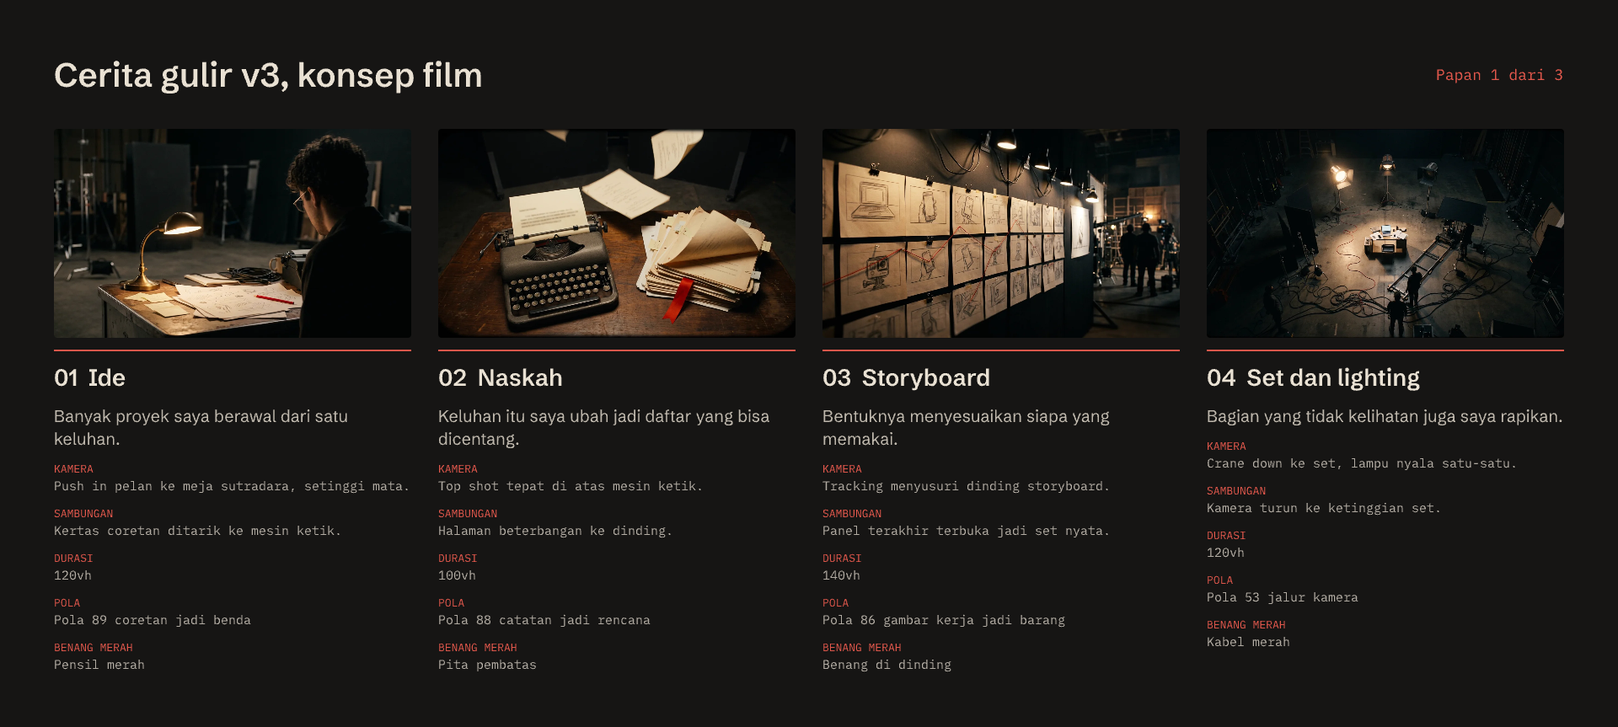
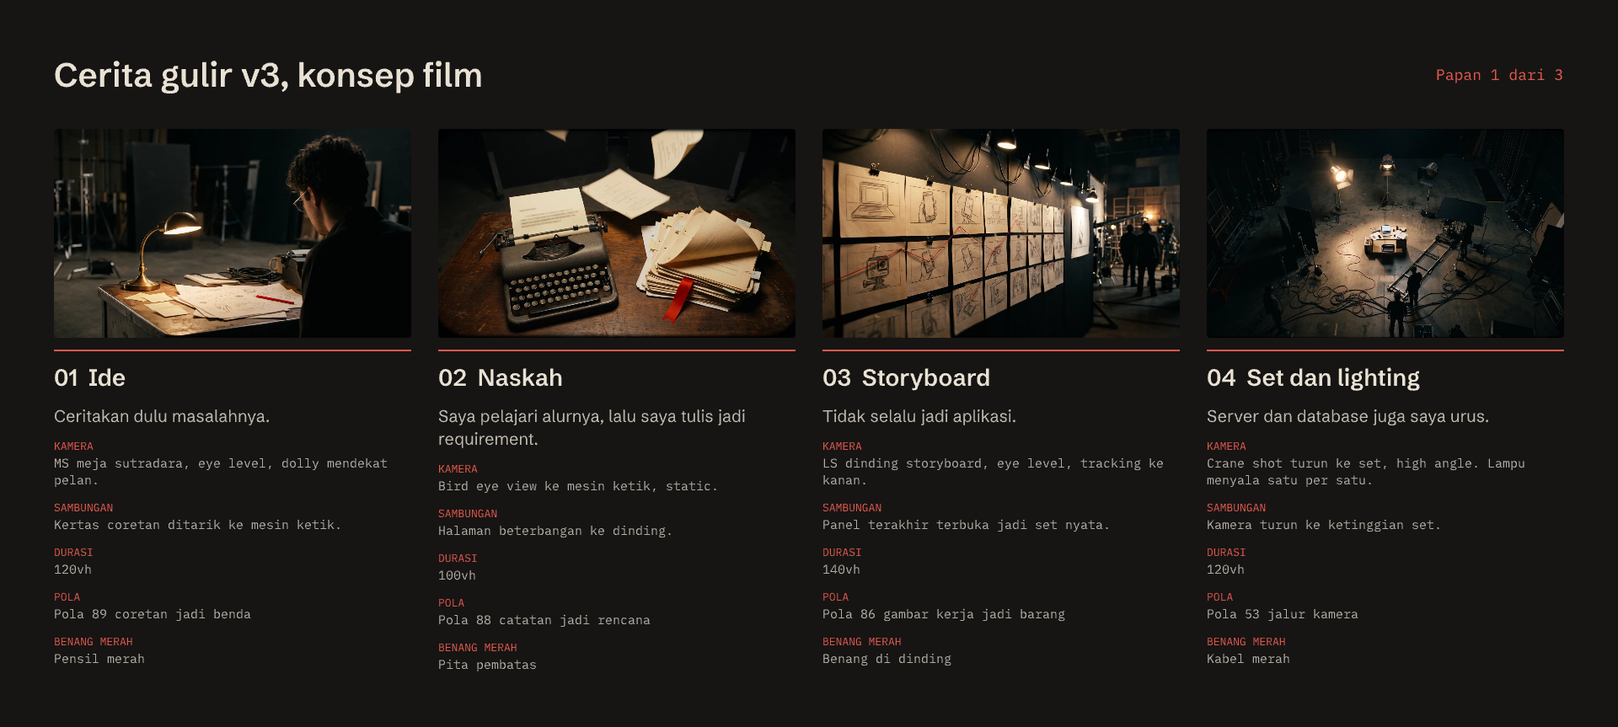
docs: teks cerita v3 putaran 3 dari riset copy dan shot list Indonesia
Teks bab ditulis dari pola situs software house Indonesia, catatan
kamera dari pola shot list dan camera report Indonesia. Sumber per baris
di desain/cerita-v3/riset-teks.md.

diff --git a/desain/cerita-v3/animatic/naskah.js b/desain/cerita-v3/animatic/naskah.js
@@ -9,43 +9,43 @@
 
 export const BEAT = [
   { no: 1, gambar: "01-ide", judul: "Ide", vh: 120,
-    teks: "Banyak proyek saya berawal dari satu keluhan.",
+    teks: "Ceritakan dulu masalahnya.",
     kamera: { dari: { x: 0.45, y: 0.6, s: 1.0 }, ke: { x: 0.42, y: 0.72, s: 1.35 } },
     hp: 0.62, sambung: { jenis: "zoom", ke: { x: 0.38, y: 0.78, s: 2.4 } } },
   { no: 2, gambar: "02-naskah", judul: "Naskah", vh: 100,
-    teks: "Keluhan itu saya ubah jadi daftar yang bisa dicentang.",
+    teks: "Saya pelajari alurnya, lalu saya tulis jadi requirement.",
     kamera: { dari: { x: 0.4, y: 0.55, s: 1.25 }, ke: { x: 0.45, y: 0.4, s: 1.05 } },
     hp: 0.4, sambung: { jenis: "naik" } },
   { no: 3, gambar: "03-storyboard", judul: "Storyboard", vh: 140,
-    teks: "Bentuknya menyesuaikan siapa yang memakai.",
+    teks: "Tidak selalu jadi aplikasi.",
     kamera: { dari: { x: 0.12, y: 0.45, s: 1.4 }, ke: { x: 0.62, y: 0.45, s: 1.15 } },
     hp: 0.3, sambung: { jenis: "portal", kotak: [0.7, 0.36, 0.06, 0.16] } },
   { no: 4, gambar: "04-set", judul: "Set dan lighting", vh: 120,
-    teks: "Bagian yang tidak kelihatan juga saya rapikan.",
+    teks: "Server dan database juga saya urus.",
     kamera: { dari: { x: 0.5, y: 0.3, s: 1.3 }, ke: { x: 0.45, y: 0.55, s: 1.6 } },
     hp: 0.46, lampu: true, sambung: { jenis: "naik" } },
   { no: 5, gambar: "05-syuting", judul: "Syuting", vh: 120,
-    teks: "Saya bangun, lalu saya coba di alat yang benar-benar dipakai.",
+    teks: "Lalu saya bangun, bertahap.",
     kamera: { dari: { x: 0.55, y: 0.5, s: 1.15 }, ke: { x: 0.6, y: 0.45, s: 1.3 } },
     hp: 0.55, getar: true, sambung: { jenis: "portal", kotak: [0.56, 0.67, 0.18, 0.16] } },
   { no: 6, gambar: "06-editing", judul: "Editing", vh: 120,
-    teks: "Anda selalu tahu sudah sampai mana.",
+    teks: "Progresnya selalu bisa Anda cek.",
     kamera: { dari: { x: 0.5, y: 0.5, s: 1.0 }, ke: { x: 0.42, y: 0.38, s: 1.55 } },
     hp: 0.5, sambung: { jenis: "zoom", ke: { x: 0.42, y: 0.36, s: 3 } } },
   { no: 7, gambar: "07-grading", judul: "Color grading", vh: 100,
-    teks: "Yang sudah jalan, saya haluskan sampai enak dipakai.",
+    teks: "Lalu dirapikan sampai enak dipakai.",
     kamera: { dari: { x: 0.55, y: 0.4, s: 1.35 }, ke: { x: 0.55, y: 0.45, s: 1.1 } },
     hp: 0.55, sibak: true, sambung: { jenis: "mundur" } },
   { no: 8, gambar: "08-screening", judul: "Test screening", vh: 120,
-    teks: "Ada sinyal atau tidak, tetap jalan.",
+    teks: "Sinyal hilang, catatan tetap tersimpan.",
     kamera: { dari: { x: 0.5, y: 0.6, s: 1.0 }, ke: { x: 0.55, y: 0.4, s: 1.45 } },
     hp: 0.55, tersendat: 0.5, sambung: { jenis: "zoom", ke: { x: 0.56, y: 0.36, s: 3.2 } } },
   { no: 9, gambar: "09-segel", judul: "Segel dan duplikasi", vh: 120,
-    teks: "Yang bisa membaca cuma orang yang memang berhak. Klien bertambah, sistemnya tidak perlu dibuat ulang.",
+    teks: "Siapa boleh lihat apa, saya atur dari awal. Klien bertambah, sistemnya tetap satu.",
     kamera: { dari: { x: 0.62, y: 0.55, s: 1.9 }, ke: { x: 0.5, y: 0.5, s: 1.0 } },
     hp: 0.72, sambung: { jenis: "mundur" } },
   { no: 10, gambar: "10-rilis", judul: "Rilis", vh: 180,
-    teks: "Sampai akhirnya dipakai orang setiap hari. Sepuluh di antaranya ada di rak ini.",
+    teks: "Sampai akhirnya dipakai tiap hari. Sepuluh di antaranya ada di rak ini.",
     kamera: { dari: { x: 0.5, y: 0.8, s: 1.3 }, ke: { x: 0.5, y: 0.42, s: 1.2 } },
     hp: 0.5, sambung: { jenis: "tirai", ke: { x: 0.5, y: 0.42, s: 4 } } },
 ];

diff --git a/desain/cerita-v3/naskah-teks.md b/desain/cerita-v3/naskah-teks.md
@@ -1,72 +1,85 @@
 # Teks cerita v3 (versi Indonesia)
 
-11 Nov 2026, putaran 2 setelah Farrez menilai semua teks putaran 1 kaku dan terasa terjemahan
-paksa dari bahasa Inggris. Ditulis lewat skill `bahasa-lisan`: bank copy coderoach-referensi
-(`gaya.md` gaya 3 "bercerita lewat momen" dan gaya 1 "tenang dan akrab", `kerangka.md`), sapaan
-"Anda" (keputusan Farrez 4 Nov 2026, `docs/naskah-adegan.md`), istilah kerja tetap Inggris.
+Putaran 3, 11 Nov 2026. Putaran 1 kaku. Putaran 2 sudah tidak kaku, tapi Farrez menilainya aneh
+("mana ada orang copywriting seperti itu"), karena kalimatnya dirakit dari aturan, bukan dari
+contoh nyata. Putaran ini ditulis dari riset (`riset-teks.md` di folder ini): cara software house
+dan agensi Indonesia menulis tahap kerjanya, dan kajian kenapa teks terasa terjemahan.
 
-Pembaca: pemilik usaha, perusahaan, dan recruiter yang sedang menimbang apakah Farrez bisa
-dipercaya mengurus masalah mereka. Momennya: mereka punya keluhan yang belum jelas bentuknya.
-Fakta dan cakupan klaim sama dengan `content/cerita.js`. Baris bertanda **[konfirmasi]** memuat
-klaim baru yang hanya Farrez tahu benar tidaknya.
+Pola yang dipakai, semuanya terlihat di situs Indonesia sungguhan (11 Nov 2026):
+- Ajakan langsung di awal: "Ceritakan kebutuhan Anda" (Javan, GITS, KerjainWeb).
+- Pelaku jelas dan kata kerja tanpa me-: "Kami pelajari ...", "Kami susun ..." (Olakses, KerjainWeb).
+  Di situs pribadi pelakunya "saya".
+- Klien jadi pelaku di tahap persetujuan: "Anda tinjau dan setujui sebelum masuk development"
+  (KerjainWeb).
+- Benda konkret, bukan sifat abstrak: "domain, hosting, CMS" (Olakses), "garansi bug" (Venturo).
+- Istilah kerja dibiarkan Inggris: requirement, development, UAT, go-live, bug (Venturo, Niagadev).
+- Satu kalimat per tahap, 7 sampai 14 kata.
 
-Versi EN ditulis terpisah saat build, dari isi yang sama, bukan diterjemahkan dari sini.
+Yang dihindari, juga dari riset: kalimat yang terbaca balik sebagai tagline Inggris, kata kerja
+transitif tanpa objek ("menyesuaikan"), sifat abstrak tanpa contoh, "lebih dari sekadar",
+"solusi digital", "era digital" (Narabahasa; alvinindra/bahasa-skills; Machali 2023).
+
+Fakta dan cakupan klaim sama dengan `content/cerita.js`. Baris **[konfirmasi]** memuat klaim yang
+hanya Farrez tahu benar tidaknya; baris itu belum dipasang di papan dan animatic.
 
 ## Judul dan isi per beat
 
-| # | Sebelum | Sesudah | Alasan |
+| # | Putaran 2 (aneh) | Putaran 3 | Polanya dari mana |
 |---|---|---|---|
-| 1 judul | Sistem yang bagus sering berawal dari keluhan kecil. | Banyak proyek saya berawal dari satu keluhan. | Terjemahan "Good systems often start as..." (cek 5). "Sistem yang bagus" kalimat umum, tidak bisa dibuktikan salah (cek 8); proyek di rak bisa dicek. |
-| 1 isi | Ceritakan masalahnya dengan kata Anda sendiri. Bagian teknisnya urusan saya. | Ceritakan saja masalahnya pakai bahasa Anda sendiri. Soal teknis, biar saya yang pikirkan. | "dengan kata Anda sendiri" kalke "in your own words" (cek 5); "urusan saya" terdengar ketus. |
-| 2 judul | Keluhan itu saya tulis ulang jadi daftar kebutuhan yang bisa dicek satu per satu. | Keluhan itu saya ubah jadi daftar yang bisa dicentang. | 14 kata jadi 8 (cek 2). "Dicentang" bisa dibayangkan (cek 8). |
-| 2 isi | (belum ada) | Tiap poin jelas: siapa yang pakai, apa yang harus terjadi, kapan dianggap beres. Anda ikut mengecek sejak awal. **[konfirmasi]** | Dari alur kerja `alur-desain` (requirement dan acceptance criteria, sign-off klien). Perlu dipastikan berlaku untuk proyek di rak. |
-| 3 judul | Bentuknya ikut kebutuhan. | Bentuknya menyesuaikan siapa yang memakai. | Kalke "The shape follows the need" (cek 5); "kebutuhan" abstrak, "siapa yang memakai" ada orangnya (cek 8). |
-| 3 isi | Kadang jawabannya aplikasi Android yang tersambung ke kamera aksi. Kadang sistem kantor di laptop, dashboard di HP, atau alur dari iklan sampai obrolan WhatsApp. | Kadang jadinya aplikasi Android yang tersambung ke kamera aksi. Kadang sistem kantor di laptop, dashboard di HP, atau alur dari iklan sampai chat WhatsApp. | "jawabannya" kalke "the answer is"; "obrolan WhatsApp" tidak diucapkan orang, yang diucapkan "chat WA". |
-| 4 judul | Yang tidak terlihat dirawat sama telitinya. | Bagian yang tidak kelihatan juga saya rapikan. | Kalke "The parts nobody sees get the same care"; pasif tanpa pelaku (cek 3). |
-| 4 isi | Sembilan dari sepuluh proyek di rak punya halaman arsitektur. Anda bisa menelusuri satu permintaan dari layar sampai server, tanpa membuka rahasia klien. | Sembilan dari sepuluh proyek di rak punya halaman arsitektur. Di situ Anda bisa ikuti satu permintaan dari layar sampai server, tanpa ada rahasia klien yang terbuka. | "menelusuri" baku; "tanpa membuka rahasia" ambigu siapa yang membuka. |
-| 5 judul | Lalu dibangun dan dicoba di perangkat yang memang dipakai. | Saya bangun, lalu saya coba di alat yang benar-benar dipakai. | Pasif tanpa pelaku (cek 3). |
-| 5 isi | (belum ada) | YiheeCam saya uji langsung dengan kamera aksi aslinya. **[konfirmasi]** | Butuh bukti: apakah memang diuji dengan YI 4K asli. |
-| 6 judul | Anda selalu tahu posisinya. | Anda selalu tahu sudah sampai mana. | "posisinya" kalke "where things stand"; orang bilang "sudah sampai mana". |
-| 6 isi | Keputusan penting saya tulis bersama alasannya. Status juga ditulis apa adanya: d-day sudah lulus uji di testnet dan belum pernah memakai uang sungguhan. | Setiap keputusan penting saya catat, lengkap dengan alasannya. Statusnya juga saya tulis apa adanya: d-day sudah lulus uji di testnet, tapi belum pernah dipakai dengan uang sungguhan. | Pasif tanpa pelaku; "d-day ... belum pernah memakai uang" membuat aplikasinya jadi pelaku. |
-| 7 judul | Yang kasar dirapikan sampai enak dipakai. | Yang sudah jalan, saya haluskan sampai enak dipakai. | Pasif tanpa pelaku; "yang kasar" tidak jelas apa. |
-| 7 isi | (belum ada) | **[konfirmasi]** Butuh satu bukti dari proyek di rak (mis. perbaikan setelah masukan pengguna). | Tanpa bukti, beat ini cukup judul. |
-| 8 judul | Tetap jalan di hari yang buruk. | Ada sinyal atau tidak, tetap jalan. | Kalke "on a bad day" (cek 5). Sinyal hilang adalah momen yang dikenal pembaca Indonesia (cek 9) dan bisa dibuktikan lewat Jeda. |
-| 8 isi | Catatan di Jeda tetap bisa ditulis tanpa sinyal, lalu menyusul begitu sinyal kembali. Saat vendor kamera aksi berhenti merawat aplikasinya, YiheeCam menggantikannya. | Di Jeda, catatan tetap bisa ditulis walau tidak ada sinyal, lalu tersimpan sendiri begitu sinyal kembali. Waktu vendor kamera aksi berhenti merawat aplikasinya, YiheeCam yang menggantikan. | "menyusul" tidak jelas apa yang menyusul; "Saat" diganti "Waktu" yang diucapkan. |
-| 9a judul | Yang bisa melihat hanya yang memang perlu. | Yang bisa membaca cuma orang yang memang berhak. | Kalke "Only the people who need to see it"; "berhak" kata yang dipakai bank dan aplikasi lokal (cek 9). |
-| 9a isi | Di Jeda, psikolog hanya membaca catatan yang dibagikan kliennya. Di AkarKita, pohon keluarga hanya terbuka lewat undangan. | Di Jeda, psikolog cuma bisa membaca catatan yang dibagikan kliennya. Pohon keluarga di AkarKita hanya terbuka lewat undangan. | Dua "hanya" berderet; urutan kalimat kedua dibalik supaya bendanya di depan. |
-| 9b judul | Dari satu klien ke banyak, tanpa mulai dari nol. | Klien bertambah, sistemnya tidak perlu dibuat ulang. | Kalke "From one client to many, without starting over". |
-| 9b isi | ERP di software house tempat saya bekerja dipakai beberapa klien sekaligus: distribusi dan servis, asuransi kesehatan, sampai payroll perkebunan. | ERP di software house tempat saya bekerja dipakai beberapa klien sekaligus: distribusi dan servis, asuransi kesehatan, sampai payroll perkebunan. | Sudah lolos; tidak diubah. |
-| 10 judul | Lalu jadilah sistem yang dipakai tiap hari. | Sampai akhirnya dipakai orang setiap hari. | "Lalu jadilah" bergaya dongeng, kalke "And then it becomes". |
-| 10 isi | Sepuluh di antaranya ada di rak ini. | Sepuluh di antaranya ada di rak ini. | Sudah lolos. |
+| 1 judul | Banyak proyek saya berawal dari satu keluhan. | Ceritakan dulu masalahnya. | Ajakan "Ceritakan kebutuhan Anda" (Javan, GITS). |
+| 1 isi | Ceritakan saja masalahnya pakai bahasa Anda sendiri. Soal teknis, biar saya yang pikirkan. | Tidak perlu pakai istilah teknis. Cukup cerita apa yang bikin repot, sisanya saya yang urus. | Bahasa pemilik usaha ("bikin repot"); janji pendek di akhir. |
+| 2 judul | Keluhan itu saya ubah jadi daftar yang bisa dicentang. | Saya pelajari alurnya, lalu saya tulis jadi requirement. | "Kami pelajari bisnis Anda" (Olakses); requirement dibiarkan Inggris (Venturo). |
+| 2 isi | Tiap poin jelas: siapa yang pakai, apa yang harus terjadi, kapan dianggap beres. | Anda cek dan setujui dulu sebelum masuk development. **[konfirmasi]** | Klien sebagai pelaku persetujuan (KerjainWeb). |
+| 3 judul | Bentuknya menyesuaikan siapa yang memakai. | Tidak selalu jadi aplikasi. | Diagnosis: "menyesuaikan" tanpa objek adalah kalke "adapts to". Diganti pernyataan yang bisa dibuktikan. |
+| 3 isi | Kadang jadinya aplikasi Android yang tersambung ke kamera aksi. Kadang sistem kantor di laptop, dashboard di HP, atau alur dari iklan sampai chat WhatsApp. | Kadang aplikasi Android yang tersambung ke kamera aksi. Kadang sistem kantor di laptop, dashboard di HP, atau alur dari iklan sampai chat WA. | Benda konkret dipertahankan; "WA" seperti ucapan orang. |
+| 4 judul | Bagian yang tidak kelihatan juga saya rapikan. | Server dan database juga saya urus. | Diagnosis: "bagian yang tidak kelihatan" klise abstrak. Sebut bendanya (pola "domain, hosting, CMS"). |
+| 4 isi | Sembilan dari sepuluh proyek di rak punya halaman arsitektur. Di situ Anda bisa ikuti satu permintaan dari layar sampai server, tanpa ada rahasia klien yang terbuka. | Sembilan dari sepuluh proyek di rak punya halaman arsitektur. Anda bisa lihat jalannya data dari layar sampai server, tanpa rahasia klien ikut terbuka. | Kalimat dipendekkan; "permintaan" (kalke "request") diganti "jalannya data". |
+| 5 judul | Saya bangun, lalu saya coba di alat yang benar-benar dipakai. | Lalu saya bangun, bertahap. | "bertahap" dipakai KerjainWeb untuk tahap development. |
+| 5 isi | YiheeCam saya uji langsung dengan kamera aksi aslinya. | YiheeCam saya uji langsung dengan kamera aksinya. **[konfirmasi]** | Bukti nyata, kalau benar. |
+| 6 judul | Anda selalu tahu sudah sampai mana. | Progresnya selalu bisa Anda cek. | "progres" kata yang dipakai klien dan vendor; klien jadi pelaku. |
+| 6 isi | Setiap keputusan penting saya catat, lengkap dengan alasannya. Statusnya juga saya tulis apa adanya: d-day sudah lulus uji di testnet, tapi belum pernah dipakai dengan uang sungguhan. | Keputusan penting saya catat beserta alasannya. Status juga saya tulis apa adanya: d-day sudah lulus uji di testnet, tapi belum pernah dipakai dengan uang sungguhan. | Dipendekkan. |
+| 7 judul | Yang sudah jalan, saya haluskan sampai enak dipakai. | Lalu dirapikan sampai enak dipakai. | Pasif sederhana seperti "Website diluncurkan" (KerjainWeb); pasif bukan tanda terjemahan. |
+| 7 isi | (belum ada) | **[konfirmasi]** satu contoh perbaikan setelah masukan pengguna. | |
+| 8 judul | Ada sinyal atau tidak, tetap jalan. | Sinyal hilang, catatan tetap tersimpan. | Diagnosis: putaran 2 terbaca balik "Signal or not, it works", subjeknya hilang. Sekarang ada benda dan akibatnya. |
+| 8 isi | Di Jeda, catatan tetap bisa ditulis walau tidak ada sinyal, lalu tersimpan sendiri begitu sinyal kembali. Waktu vendor kamera aksi berhenti merawat aplikasinya, YiheeCam yang menggantikan. | Di Jeda, catatan tetap bisa ditulis tanpa sinyal, lalu terkirim sendiri begitu sinyal kembali. Waktu vendor kamera aksi berhenti merawat aplikasinya, YiheeCam yang menggantikan. | Fakta sama. |
+| 9a judul | Yang bisa membaca cuma orang yang memang berhak. | Siapa boleh lihat apa, saya atur dari awal. | Pelaku jelas, kalimat yang diucapkan orang saat rapat. |
+| 9a isi | Di Jeda, psikolog cuma bisa membaca catatan yang dibagikan kliennya. Pohon keluarga di AkarKita hanya terbuka lewat undangan. | Di Jeda, psikolog cuma bisa baca catatan yang dibagikan kliennya. Pohon keluarga di AkarKita hanya terbuka lewat undangan. | Fakta sama. |
+| 9b judul | Klien bertambah, sistemnya tidak perlu dibuat ulang. | Klien bertambah, sistemnya tetap satu. | Lebih pendek; bisa dibuktikan lewat isi di bawahnya. |
+| 9b isi | ERP di software house tempat saya bekerja dipakai beberapa klien sekaligus: distribusi dan servis, asuransi kesehatan, sampai payroll perkebunan. | (sama) | Sudah lolos. |
+| 10 judul | Sampai akhirnya dipakai orang setiap hari. | Sampai akhirnya dipakai tiap hari. | Dipendekkan. |
+| 10 isi | Sepuluh di antaranya ada di rak ini. | (sama) | Sudah lolos. |
 
 ## Keluhan di beat 1 (kertas tempel)
 
-Ditulis seperti ucapan pemakainya, karena di layar tampil sebagai catatan keluhan.
+Ditulis seperti ucapan pemakainya.
 
-| Proyek | Sebelum | Sesudah |
-|---|---|---|
-| viralytics | Kampanye, kontrak, dan invoice masih tersebar di spreadsheet dan grup WhatsApp. | Kampanye, kontrak, invoice, semuanya masih di spreadsheet dan grup WA. |
-| yiheecam | Aplikasi kamera aksinya sudah ditinggalkan vendornya. | Aplikasi kamera aksinya sudah tidak diurus vendornya. |
-| fifofun | Anggaran rumah tangga tidak pernah cocok dengan saldo di bank. | Anggaran rumah tangga tidak pernah cocok sama saldo di bank. |
-| nds-etl | Distributor yang sudah sepuh perlu tahu kapan dan berapa repeat order, cukup dari HP. | Distributor yang sudah sepuh ingin cek dari HP: kapan harus repeat order, dan berapa. |
-| akarkita | Yang muda bingung harus memanggil kerabat dengan sebutan apa. | Anak muda sering bingung harus memanggil kerabatnya apa. |
+| Proyek | Teks |
+|---|---|
+| viralytics | Kampanye, kontrak, invoice, semuanya masih di spreadsheet dan grup WA. |
+| yiheecam | Aplikasi kamera aksinya sudah tidak diurus vendornya. |
+| fifofun | Anggaran rumah tangga tidak pernah cocok sama saldo di bank. |
+| nds-etl | Distributor yang sudah sepuh ingin cek dari HP: kapan harus repeat order, dan berapa. |
+| akarkita | Anak muda sering bingung harus memanggil kerabatnya apa. |
 
 ## Catatan kamera di papan
 
-Istilah kru film Indonesia memang Inggris (push in, top shot, tracking, crane, handheld), jadi
-dibiarkan. Versi putaran 1 menerjemahkannya ("dorong", "menyusur"), dan itu yang terasa aneh.
+Ditulis mengikuti cara shot list dan camera report Indonesia (`riset-teks.md` bagian 3): ukuran
+gambar, angle, dan gerak kamera dalam istilah Inggris atau singkatannya (MS, LS, CU, ECU, eye
+level, dolly, tracking, zoom out), subjeknya dalam bahasa Indonesia biasa. "Push in" tidak muncul
+di satu pun sumber Indonesia, dan "setinggi mata" adalah bentuk terjemahan mesin (blog Kling ID).
 
-| # | Sebelum | Sesudah |
+| # | Putaran 2 (aneh) | Putaran 3 |
 |---|---|---|
-| 1 | Dorong pelan di ketinggian mata ke meja sutradara. | Push in pelan ke meja sutradara, setinggi mata. |
-| 2 | Top-down di atas mesin ketik. | Top shot tepat di atas mesin ketik. |
-| 3 | Menyusur dinding panel. | Tracking menyusuri dinding storyboard. |
-| 4 | Crane turun ke set, lampu menyala satu per satu. | Crane down ke set, lampu nyala satu-satu. |
-| 5 | Handheld mengikuti kamera aksi dan HP. | Handheld, ikut gerak kamera aksi dan HP. |
-| 6 | Dorong ke dua monitor timeline. | Push in ke dua monitor timeline. |
-| 7 | Layar terbelah, garis sibak bergeser. | Split screen, garis pembatasnya bergeser. |
-| 8 | Dari baris belakang, menembus layar. | Dari kursi paling belakang, lalu masuk ke layar. |
-| 9 | Makro ke segel, lalu mundur ke jalur penggandaan. | Close-up makro di segel, lalu pull back ke mesin duplikasi. |
-| 10 | Ikuti satu kotak di ban berjalan. | Ikuti satu kotak CD di conveyor. |
+| 1 | Push in pelan ke meja sutradara, setinggi mata. | MS meja sutradara, eye level, dolly mendekat pelan. |
+| 2 | Top shot tepat di atas mesin ketik. | Bird eye view ke mesin ketik, static. |
+| 3 | Tracking menyusuri dinding storyboard. | LS dinding storyboard, eye level, tracking ke kanan. |
+| 4 | Crane down ke set, lampu nyala satu-satu. | Crane shot turun ke set, high angle. Lampu menyala satu per satu. |
+| 5 | Handheld, ikut gerak kamera aksi dan HP. | MS laptop di set, handheld, follow kamera aksi dan HP. |
+| 6 | Push in ke dua monitor timeline. | MCU dua monitor timeline, eye level, dolly mendekat. |
+| 7 | Split screen, garis pembatasnya bergeser. | CU monitor grading, static. Garis pembatas sebelum dan sesudah bergeser. |
+| 8 | Dari kursi paling belakang, lalu masuk ke layar. | LS ruang tonton dari baris belakang, dolly mendekat ke layar. |
+| 9 | Close-up makro di segel, lalu pull back ke mesin duplikasi. | ECU segel lilin, lalu zoom out ke mesin duplikasi. |
+| 10 | Ikuti satu kotak CD di conveyor. | MS kotak CD di conveyor, low angle, tracking mengikuti kotak. |
 
-Judul beat 9 menjadi "Segel dan duplikasi" ("penggandaan" tidak dipakai kru).
+Sambungan yang ikut diganti: beat 7 "Mundur keluar dari ruang grading ke ruang tonton.", beat 10
+"Kamera masuk lewat tirai rak ke seksi rak proyek."

diff --git a/desain/cerita-v3/riset-teks.md b/desain/cerita-v3/riset-teks.md
@@ -1,0 +1,77 @@
+# Riset teks cerita v3 (11 Nov 2026)
+
+Dasar `naskah-teks.md` putaran 3. Tiga riset lewat subagen peneliti. Label: V dibaca langsung
+(lewat WebFetch, belum dicocokkan per karakter dengan HTML), I dari cuplikan pencarian.
+
+## 1. Cara software house dan agensi Indonesia menulis tahap kerja
+
+| Sumber | Kutipan pendek | Tahap | Label |
+|---|---|---|---|
+| javan.co.id | "Ceritakan kebutuhan Anda" | kebutuhan | V |
+| javan.co.id | "memetakan alur kerja, membangun sistem sesuai kebutuhan" | tentang | V |
+| kerjainweb.my.id | "Ceritakan tujuan bisnis, target pelanggan, dan kendala" | konsultasi | V |
+| kerjainweb.my.id | "Kami susun rekomendasi solusi, fitur, timeline" | scope | V |
+| kerjainweb.my.id | "Anda tinjau dan setujui sebelum masuk development." | desain | V |
+| kerjainweb.my.id | "Website diluncurkan, lalu akses dan panduan ... diserahkan" | serah terima | V |
+| venturo.id | "UAT di staging, rilis ke production, plus masa garansi bug." | uji, rilis | V |
+| venturo.id | "Proses yang jelas dari hari pertama, tanpa drama." | tentang | V |
+| olakses.com | "Kami pelajari bisnis Anda, target audiens, dan tujuan utama" | riset | V |
+| olakses.com | "Semua akses diserahkan ke Anda: domain, hosting, CMS" | serah terima | V |
+| gits.id | "akan menghubungi Anda dalam 1×24 jam kerja" | kontak | V |
+| niagadev.com | "Kami mempelajari model bisnis dan menentukan fitur utama" | kebutuhan | V |
+| Kulwap PHP ID Jakarta 2017 | "consultant menerjemahkan apa yang client mau" | kebutuhan | V |
+| Kulwap PHP ID Jakarta 2017 | "Jangan sampai balik ke analisa lagi" | scope | V |
+
+Pola: sapaan Anda dan kami paling umum; satu kalimat per tahap, 7 sampai 14 kata; kata kerja
+aktif tanpa me- ("Kami pelajari", "Kami susun"); benda konkret; istilah Inggris yang dibiarkan:
+requirement, scope, timeline, development, UAT, staging, production, go-live, bug, maintenance.
+Yang dihindari: "Lebih dari sekedar software" (sekawanmedia.co.id), "Dalam era digital"
+(niagadev.com), "solusi terbaik bagi transformasi digital" (softwareseni.co.id), tiga kata sifat
+abstrak berjajar.
+
+Celah: portofolio pribadi praktisi Indonesia yang terbaca semuanya berbahasa Inggris; kata-kata
+pemilik usaha tentang vendor tidak ditemukan (Mojok, Kompasiana, Kaskus, Quora). Medium, Notion
+publik, refactory.id, timedoor, infiniti gagal dibuka.
+
+## 2. Kenapa teks terasa aneh walau tidak kaku
+
+| Temuan | Sumber | Label |
+|---|---|---|
+| Label "too literal, not natural" hanya menyentuh isi; teks bisa benar isinya tapi salah nada dan alur informasi | Machali 2023, Jurnal Penerjemahan 10(1) | V |
+| Kalimat berawalan kata kerja tanpa pelaku meniru pola present participle Inggris | Narabahasa 2021, "Kalimat Berawalan Kata Kerja" | V |
+| "di mana/yang mana" sebagai penghubung adalah interferensi Inggris | Narabahasa 2021 | V |
+| Penerjemah buku: susun ulang dari makna, bukan alihkan kata per kata; ragam lisan untuk kutipan santai | Femmy Syahrani, blog Goodreads 2017 | V |
+| Campur kode di iklan Indonesia berupa sisipan kata atau frasa Inggris untuk citra profesional | Asdah dan Hasbi 2025, Panrita 5(2) | V |
+| Slogan Indonesia yang berhasil bersandar pada bunyi dan ulangan | Nurjanah dkk. 2024, Jurnal Onoma 10(2) | V |
+| Pola tulisan AI Indonesia: "bukan sekadar X, melainkan Y", tripel kosong, kosakata slop | github.com/alvinindra/bahasa-skills | V |
+| Uji logo kompetitor: kalau logo lain ditempel dan copy tetap masuk akal, copy belum spesifik | alvinindra/bahasa-skills, bahasa-marketing | V |
+| Translationese umum pada teks buatan LLM | arXiv 2503.04369 | I |
+
+Diagnosis contoh putaran 2 (inferensi peneliti dari temuan di atas, belum diuji ke pembaca):
+- "Push in pelan ke meja sutradara, setinggi mata." Arahan kamera yang bocor jadi kalimat; berawalan
+  kata kerja tanpa pelaku; "setinggi mata" padanan harfiah "eye level".
+- "Ada sinyal atau tidak, tetap jalan." Terbaca balik "Signal or not, it works"; subjek hilang.
+- "Bentuknya menyesuaikan siapa yang memakai." "Menyesuaikan" tanpa objek (kalke "adapts to");
+  dua kata abstrak tanpa contoh; lolos uji logo kompetitor.
+- "Bagian yang tidak kelihatan juga saya rapikan." Susunannya sah, tapi klise portofolio yang abstrak.
+
+Celah: buku Hoed dan Machali 2000 tidak terbaca; Glints, Medium Blibli, dan Neliti membalas 403;
+tidak ada studi terkontrol tentang tulisan ChatGPT berbahasa Indonesia.
+
+## 3. Cara kru film Indonesia menulis shot list
+
+| Sumber | Temuan | Label |
+|---|---|---|
+| Al Ariq dkk. 2026, e-Proceeding Art & Design Telkom 13(1) | "Shot ini menggunakan medium shot dengan sudut eye level dan pergerakan pedestal"; kolom Shot Size, Angle, Movement, Composition dalam bahasa Inggris | V |
+| Laporan DOP film "Soal Waktu", repository Universitas Mercu Buana | Camera report: Scene, Shot, Movement (Still, Zoom In, Pan Left), Int/Ext, Time (Pagi/Malam), Keterangan berupa kalimat aksi Indonesia | V |
+| Bonafix 2011, Humaniora BINUS 2(1) | Istilah Inggris dulu, padanan dalam kurung: "Frame Size (Ukuran Gambar)"; singkatan ECU, BCU, CU, MCU, MS, FS, LS; dolly shot, panning, crane shot, follow | V |
+| Ahmad dkk. 2022, Jurnal Desain Unindra 10(1) | Storyboard berkop Inggris (Cuts, Picture, Action, Dialogue); Long Shot, Dissolve To | V |
+| Dealls 2026 (blog karier) | Caption storyboard: "Shot 2, Close up layar aplikasi absensi online (Durasi: 4 detik)" | I |
+| Kling AI blog ID 2026 | Pembanding negatif: tabel diterjemahkan penuh ("setinggi mata", "Pelacakan") | I |
+
+Pola: istilah kamera tetap Inggris atau singkatan, subjek dan aksi dalam kalimat Indonesia biasa.
+Urutan yang paling sering: ukuran gambar, angle, gerak, lalu subjek atau keterangan.
+
+Celah: templat IKJ, ISI, UMN, dan buku SMK Kemdikbud tidak terbuka (401, DNS, 403); glosarium
+Badan Bahasa tidak terbaca; belum ada dokumen dari rumah produksi profesional. "Dolly in" belum
+terverifikasi dari sumber terbuka, jadi papan memakai "dolly mendekat" (dolly shot ada di Bonafix).

diff --git a/desain/cerita-v3/storyboard/papan.md b/desain/cerita-v3/storyboard/papan.md
@@ -17,16 +17,16 @@ muncul di sisi kiri (desktop) atau bawah (HP).
 
 | # | Beat | Durasi desktop | Pola bank | Benang merah | Teks bab (Anda), lihat naskah-teks.md | Status teks |
 |---|---|---|---|---|---|---|
-| 1 | Ide | 120vh | 89 coretan jadi benda | pensil merah | Banyak proyek saya berawal dari satu keluhan. | ada (bab demo) |
-| 2 | Naskah | 100vh | 88 catatan jadi rencana | pita pembatas | Keluhan itu saya ubah jadi daftar yang bisa dicentang. | draf, perlu bukti |
-| 3 | Storyboard | 140vh | 86 gambar kerja jadi barang | benang di dinding | Bentuknya menyesuaikan siapa yang memakai. | ada (bab aransemen) |
-| 4 | Set dan lighting | 120vh | 53 camera path (crane) | kabel merah | Bagian yang tidak kelihatan juga saya rapikan. | ada (bab infrastruktur) |
-| 5 | Syuting | 120vh | 55 objek persisten, 33 FLIP ke monitor | lampu tally | Saya bangun, lalu saya coba di alat yang benar-benar dipakai. | draf, perlu bukti |
-| 6 | Editing | 120vh | 18 timeline panggung sticky | playhead | Anda selalu tahu sudah sampai mana. | ada (bab transparansi) |
-| 7 | Grading | 100vh | 01 sibak, 57 butir dan distorsi | cincin grading | Yang sudah jalan, saya haluskan sampai enak dipakai. | draf, perlu bukti |
-| 8 | Test screening | 120vh | 36 portal zoom-through | lampu merah | Ada sinyal atau tidak, tetap jalan. | ada (bab keandalan) |
-| 9 | Segel dan duplikasi | 120vh | 56 instanced field | segel lilin | Yang bisa membaca cuma orang yang memang berhak. Klien bertambah, sistemnya tidak perlu dibuat ulang. | ada (bab keamanan, skala) |
-| 10 | Rilis | 180vh | 40 traveling hero object, 36 portal | tirai rak | Sampai akhirnya dipakai orang setiap hari. Sepuluh di antaranya ada di rak ini. | ada (bab rak) |
+| 1 | Ide | 120vh | 89 coretan jadi benda | pensil merah | Ceritakan dulu masalahnya. | ada (bab demo) |
+| 2 | Naskah | 100vh | 88 catatan jadi rencana | pita pembatas | Saya pelajari alurnya, lalu saya tulis jadi requirement. | draf, perlu bukti |
+| 3 | Storyboard | 140vh | 86 gambar kerja jadi barang | benang di dinding | Tidak selalu jadi aplikasi. | ada (bab aransemen) |
+| 4 | Set dan lighting | 120vh | 53 camera path (crane) | kabel merah | Server dan database juga saya urus. | ada (bab infrastruktur) |
+| 5 | Syuting | 120vh | 55 objek persisten, 33 FLIP ke monitor | lampu tally | Lalu saya bangun, bertahap. | draf, perlu bukti |
+| 6 | Editing | 120vh | 18 timeline panggung sticky | playhead | Progresnya selalu bisa Anda cek. | ada (bab transparansi) |
+| 7 | Grading | 100vh | 01 sibak, 57 butir dan distorsi | cincin grading | Lalu dirapikan sampai enak dipakai. | draf, perlu bukti |
+| 8 | Test screening | 120vh | 36 portal zoom-through | lampu merah | Sinyal hilang, catatan tetap tersimpan. | ada (bab keandalan) |
+| 9 | Segel dan duplikasi | 120vh | 56 instanced field | segel lilin | Siapa boleh lihat apa, saya atur dari awal. Klien bertambah, sistemnya tetap satu. | ada (bab keamanan, skala) |
+| 10 | Rilis | 180vh | 40 traveling hero object, 36 portal | tirai rak | Sampai akhirnya dipakai tiap hari. Sepuluh di antaranya ada di rak ini. | ada (bab rak) |
 
 Anti-resep yang dihindari: A5 (diorama, fly-through, dan rack focus sekaligus). DOF hanya dipakai
 di beat makro (1, 9), bukan saat kamera terbang.
@@ -35,13 +35,13 @@ di beat makro (1, 9), bukan saat kamera terbang.
 
 | # | Kamera | Sambungan ke beat berikut |
 |---|---|---|
-| 1 | Push in pelan ke meja sutradara, setinggi mata | Kertas coretan ditarik ke mesin ketik |
-| 2 | Top shot tepat di atas mesin ketik | Halaman beterbangan ke dinding |
-| 3 | Tracking menyusuri dinding storyboard | Panel terakhir terbuka jadi set nyata |
-| 4 | Crane down ke set, lampu nyala satu-satu | Kamera turun ke ketinggian set |
-| 5 | Handheld, ikut gerak kamera aksi dan HP | Gambar masuk ke monitor lapangan |
-| 6 | Push in ke dua monitor timeline | Layar penuh berganti ke monitor grading |
-| 7 | Split screen, garis pembatasnya bergeser | Pull back keluar dari ruang grading, ke ruang tonton |
-| 8 | Dari kursi paling belakang, lalu masuk ke layar | Sorot proyektor jatuh ke kaleng film |
-| 9 | Close-up makro di segel, lalu pull back ke mesin duplikasi | Satu cakram lepas dari tumpukan |
-| 10 | Ikuti satu kotak CD di conveyor | Masuk lewat tirai rak, sampai ke seksi rak proyek |
+| 1 | MS meja sutradara, eye level, dolly mendekat pelan | Kertas coretan ditarik ke mesin ketik |
+| 2 | Bird eye view ke mesin ketik, static | Halaman beterbangan ke dinding |
+| 3 | LS dinding storyboard, eye level, tracking ke kanan | Panel terakhir terbuka jadi set nyata |
+| 4 | Crane shot turun ke set, high angle. Lampu menyala satu per satu | Kamera turun ke ketinggian set |
+| 5 | MS laptop di set, handheld, follow kamera aksi dan HP | Gambar masuk ke monitor lapangan |
+| 6 | MCU dua monitor timeline, eye level, dolly mendekat | Layar penuh berganti ke monitor grading |
+| 7 | CU monitor grading, static. Garis pembatas sebelum dan sesudah bergeser | Mundur keluar dari ruang grading ke ruang tonton |
+| 8 | LS ruang tonton dari baris belakang, dolly mendekat ke layar | Sorot proyektor jatuh ke kaleng film |
+| 9 | ECU segel lilin, lalu zoom out ke mesin duplikasi | Satu cakram lepas dari tumpukan |
+| 10 | MS kotak CD di conveyor, low angle, tracking mengikuti kotak | Kamera masuk lewat tirai rak ke seksi rak proyek |
